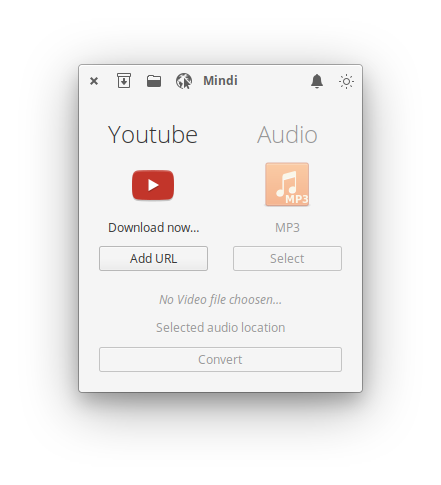
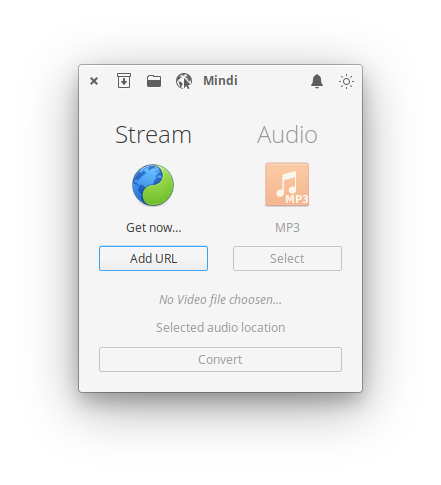
update converter

Changed region(s): [[0.2358, 0.4639, 0.4717, 0.5258], [0.2358, 0.2474, 0.4422, 0.3093], [0.2948, 0.3402, 0.4127, 0.433]]

diff --git a/README.md b/README.md
@@ -4,7 +4,7 @@
 
 Quickly convert video to audio  
 Features:
-- Get audio from youtube.
+- Get stream video.
 - Use from context menu: right click on video, and select "Convert to Audio".
 - Use from Applications select video.
 
